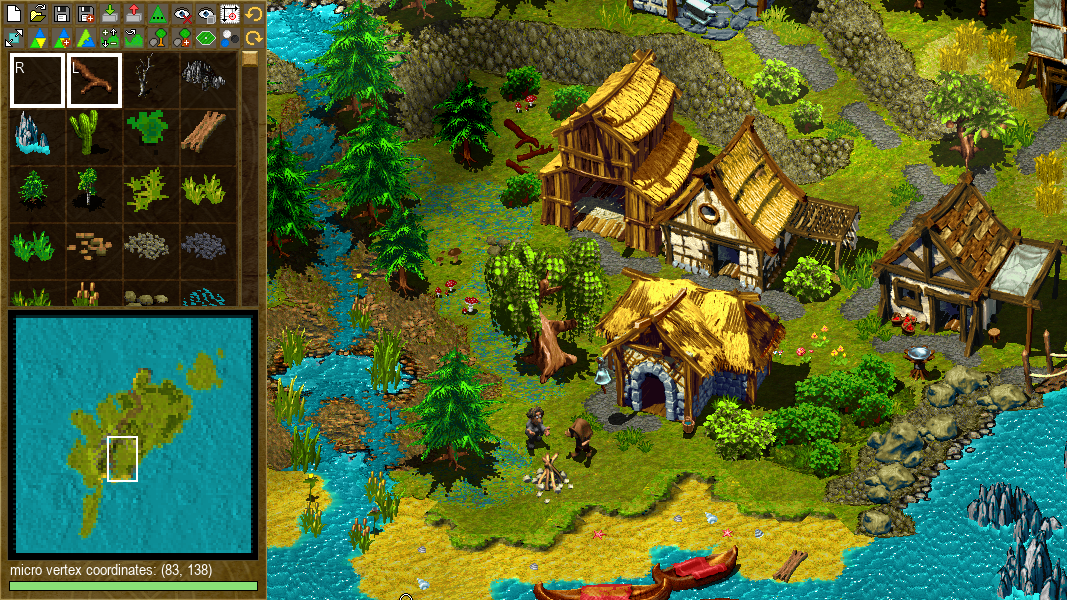
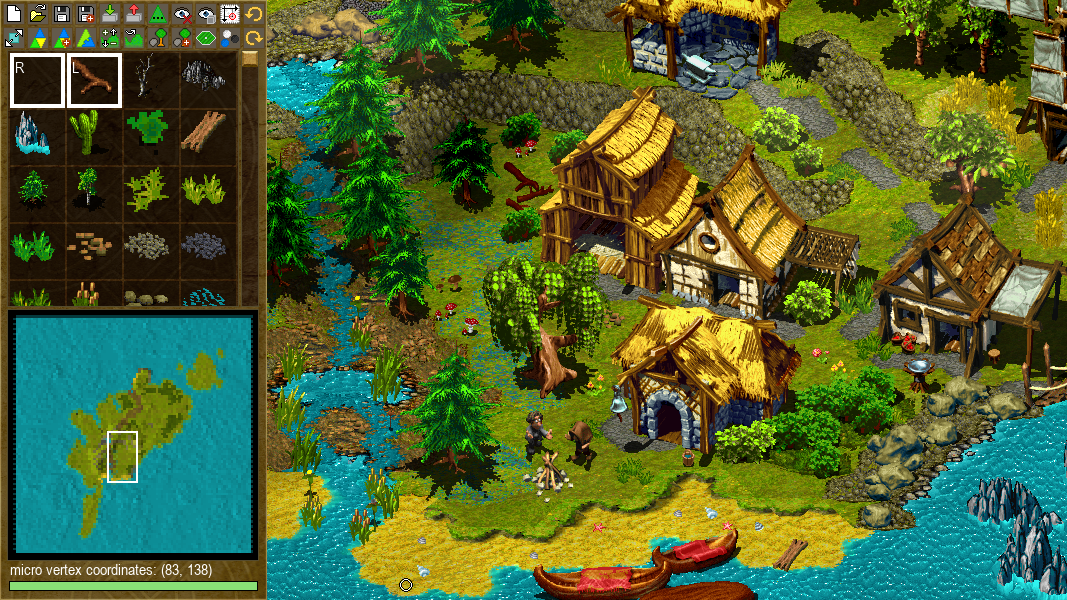
Improved terrain/landscapes display

diff --git a/supplements/gouraud.py b/supplements/gouraud.py
@@ -6,6 +6,14 @@ from supplements.read import read
 from supplements.remaptables import RemapTable, remaptable_default
 
 filepath_default = "data_v\\ve_graphics\\gouraud\\gouraud.dat"
+# Similar gouraud.dat files appear in other games co-created by Joymania Entertainment. It has been confirmed that this
+# file serve the exact same purpose in the "Knights and Merchants: The Shattered Kingdom" and in the "Knights and
+# Merchants: The Peasants Rebellion" as it does in the "Cultures: Discovery of Vinland" and in the "Cultures: The
+# Revenge of the Rain God" except lacking file header in first two of them. This is not so important for the development
+# of Cultures-related tools itself, but it is an interesting insight into the historical aspect of Cultures development.
+# This information might be useful for other people attempting to read this file in different video games. More
+# information about Joymania Entertainment can be found here: https://www.knightsandmerchants.net/information/joymania
+
 entry_size = 256
 
 directory_name = "gouraud"
@@ -18,11 +26,11 @@ float32_to_uint32 = lambda x: int(np.frombuffer(np.float32(x).tobytes(), dtype=n
 
 class Gouraud:
     # Class meant for storing pre-rendered shades of colors used in game for Gouraud shading of terrain and landscapes.
-    # For mor information about Gouraud shading check this article: https://en.wikipedia.org/wiki/Gouraud_shading
+    # For more information about Gouraud shading check this article: https://en.wikipedia.org/wiki/Gouraud_shading
 
     def __init__(self):
-        self.value1 = 0.0
-        self.value2 = 0.0
+        self.correction_term = 0.0  # This parameter is not used by Cultures.exe program. Exact purpose is unknown.
+        self.shading_factor = 0.0
         self.array = np.zeros(shape=(1, 256), dtype=np.uint8)
 
     def load(self, filepath: str = filepath_default):
@@ -30,8 +38,8 @@ class Gouraud:
 
         number_of_entries= 2 * buffer.unsigned(2) + 1
 
-        self.value1 = uint32_to_float32(buffer.unsigned(4))
-        self.value2 = uint32_to_float32(buffer.unsigned(4))
+        self.correction_term = uint32_to_float32(buffer.unsigned(4))
+        self.shading_factor = uint32_to_float32(buffer.unsigned(4))
         self.array = np.zeros(shape=(number_of_entries, 256), dtype=np.uint8)
 
         for x in range(number_of_entries):
@@ -44,8 +52,8 @@ class Gouraud:
         buffer_taker = BufferTaker()
         assert self.array.shape[0] % 2 == 1  # There must be odd number of rows (middle row must exist).
         buffer_taker.unsigned(self.array.shape[0] // 2, length=2)
-        buffer_taker.unsigned(float32_to_uint32(self.value1), length=4)
-        buffer_taker.unsigned(float32_to_uint32(self.value2), length=4)
+        buffer_taker.unsigned(float32_to_uint32(self.correction_term), length=4)
+        buffer_taker.unsigned(float32_to_uint32(self.shading_factor), length=4)
 
         for x in range(self.array.shape[0]):
             for y in range(entry_size):
@@ -57,14 +65,14 @@ class Gouraud:
     def pack(self, directory: str):
         directory_full = os.path.join(directory, directory_name)
         with open(os.path.join(directory_full, metadata_filename), "r") as file:
-            self.value1, self.value2 = map(float, file.read().strip("\n").split(","))
+            self.correction_term, self.shading_factor = map(float, file.read().strip("\n").split(","))
         self.array = np.array(Image.open(os.path.join(directory_full, bitmap_filename)))
 
     def extract(self, directory: str, *, remaptable: RemapTable = remaptable_default):
         directory_full = os.path.join(directory, directory_name)
         os.makedirs(directory_full, exist_ok=True)
         with open(os.path.join(directory_full, metadata_filename), "w") as file:
-            file.write(f"{self.value1},{self.value2}")
+            file.write(f"{self.correction_term},{self.shading_factor}")
         image = Image.fromarray(self.array)
         image.putpalette([value for rgb in [remaptable[i] for i in range(256)] for value in rgb])
         image.save(os.path.join(directory_full, bitmap_filename))

diff --git a/editor.py b/editor.py
@@ -28,7 +28,7 @@ from interface.horizont import enforce_horizonless_heightmap
 from interface.interpolation import get_data_interpolated
 from interface.invisible import transparent_landscapes_color_match, color_circle_radius, render_legend
 from interface.landscapes_area import AreaTable
-from interface.landscapes_light import adjust_opaque_pixels
+from interface.landscapes_light import adjust_opaque_pixels, check_remap_disability
 from interface.light import update_light_local
 from interface.message import message, set_font_text, one_frame_popup
 from interface.minimap import Minimap
@@ -616,10 +616,13 @@ class Editor:
             elif landscape_name is not None:
                 animation = animations[landscape_name.lower()]
                 frame = floor(time.time() * animation_frames_per_second) % len(animation.images)
-                image = adjust_opaque_pixels(animation.images[frame], get_data_interpolated(coordinates,
-                                                                                            (self.map.map_width,
-                                                                                             self.map.map_height),
-                                                                                            self.map.mlig))
+                if check_remap_disability(landscape_name):
+                    image = animation.images[frame]
+                else:
+                    image = adjust_opaque_pixels(animation.images[frame], get_data_interpolated(coordinates,
+                                                                                                (self.map.map_width,
+                                                                                                 self.map.map_height),
+                                                                                                self.map.mlig))
                 self.root.blit(image, (draw_coordinates[0] + animation.rect[0],
                                        draw_coordinates[1] + animation.rect[1]))
                 landscapes_on_screen += 1

diff --git a/interface/triangles.py b/interface/triangles.py
@@ -1,7 +1,7 @@
 from map import Map
 from typing import Literal
-from interface.const import terrain_light_factor
 from interface.interpolation import get_data_interpolated
+from supplements.gouraud import gouraud
 from supplements.textures import patterndefs_textures
 
 
@@ -49,7 +49,7 @@ def get_major_triangle_light_values(coordinates, triangle_type: Literal["a", "b"
         light_value = map_object.mlig[(corner[1] % (map_object.map_height // 2)) * map_object.map_width // 2 +
                                       (corner[0] % (map_object.map_width  // 2))]
 
-        light_value = terrain_light_factor * (light_value - 127) / 128
+        light_value = gouraud.shading_factor * (light_value - 127) / 128
         light_values.append(light_value)
 
     return tuple(light_values)
@@ -59,7 +59,7 @@ def get_minor_triangle_light_values(coordinates, triangle_type: Literal["a", "b"
     light_values = []
     for corner in get_triangle_corner_vertices(coordinates, triangle_type):
         light_value = get_data_interpolated(corner, (map_object.map_width, map_object.map_height), map_object.mlig)
-        light_value = terrain_light_factor * (light_value - 127) / 128
+        light_value = gouraud.shading_factor * (light_value - 127) / 128
         light_values.append(light_value)
 
     return tuple(light_values)

diff --git a/interface/landscapes_light.py b/interface/landscapes_light.py
@@ -1,7 +1,16 @@
 import pygame
 from functools import lru_cache
-from interface.const import landscape_light_factor_inverse, lru_cache_landscapes_light_maxsize
+from interface.const import lru_cache_landscapes_light_maxsize
+from supplements.landscapedefs import landscapedefs
+from supplements.gouraud import gouraud
 import numpy as np
+
+def check_remap_disability(landscape_name: str) -> bool:
+    match landscapedefs[landscape_name].get("RemapDisable", 0):
+        case 0: return False
+        case 1: return True
+        case _: raise ValueError
+
 
 @lru_cache(maxsize=lru_cache_landscapes_light_maxsize)
 def adjust_opaque_pixels(surface: pygame.Surface, factor: int):
@@ -10,7 +19,7 @@ def adjust_opaque_pixels(surface: pygame.Surface, factor: int):
     pixel_array = pygame.surfarray.pixels3d(surface)
 
     brightened_pixels = pixel_array.astype(np.int16)
-    brightened_pixels[::] += (factor - 127)//landscape_light_factor_inverse
+    brightened_pixels[::] += round((factor - 127) * gouraud.shading_factor)
     brightened_pixels = np.clip(brightened_pixels, 0, 255).astype(np.uint8)
 
     pixel_array[::] = brightened_pixels[::]

diff --git a/interface/const.py b/interface/const.py
@@ -11,14 +11,12 @@ background_color = (0, 0, 0)
 lru_cache_landscapes_light_maxsize = 1536
 lru_cache_triangles_maxsize = 8192
 lru_cache_edges_maxsize = 1024
-landscape_light_factor_inverse = 2
-terrain_light_factor = 0.75
 camera_discretization_factor = 0
 camera_max_move_distance = 100
 timeout_duration = 0.1
 transition_stretch_factor = 1/3
 triangle_width = 32
-triangle_height = 16
+triangle_height = 14
 height_factor = 1
 font_name = "Arial"
 font_size = 16
